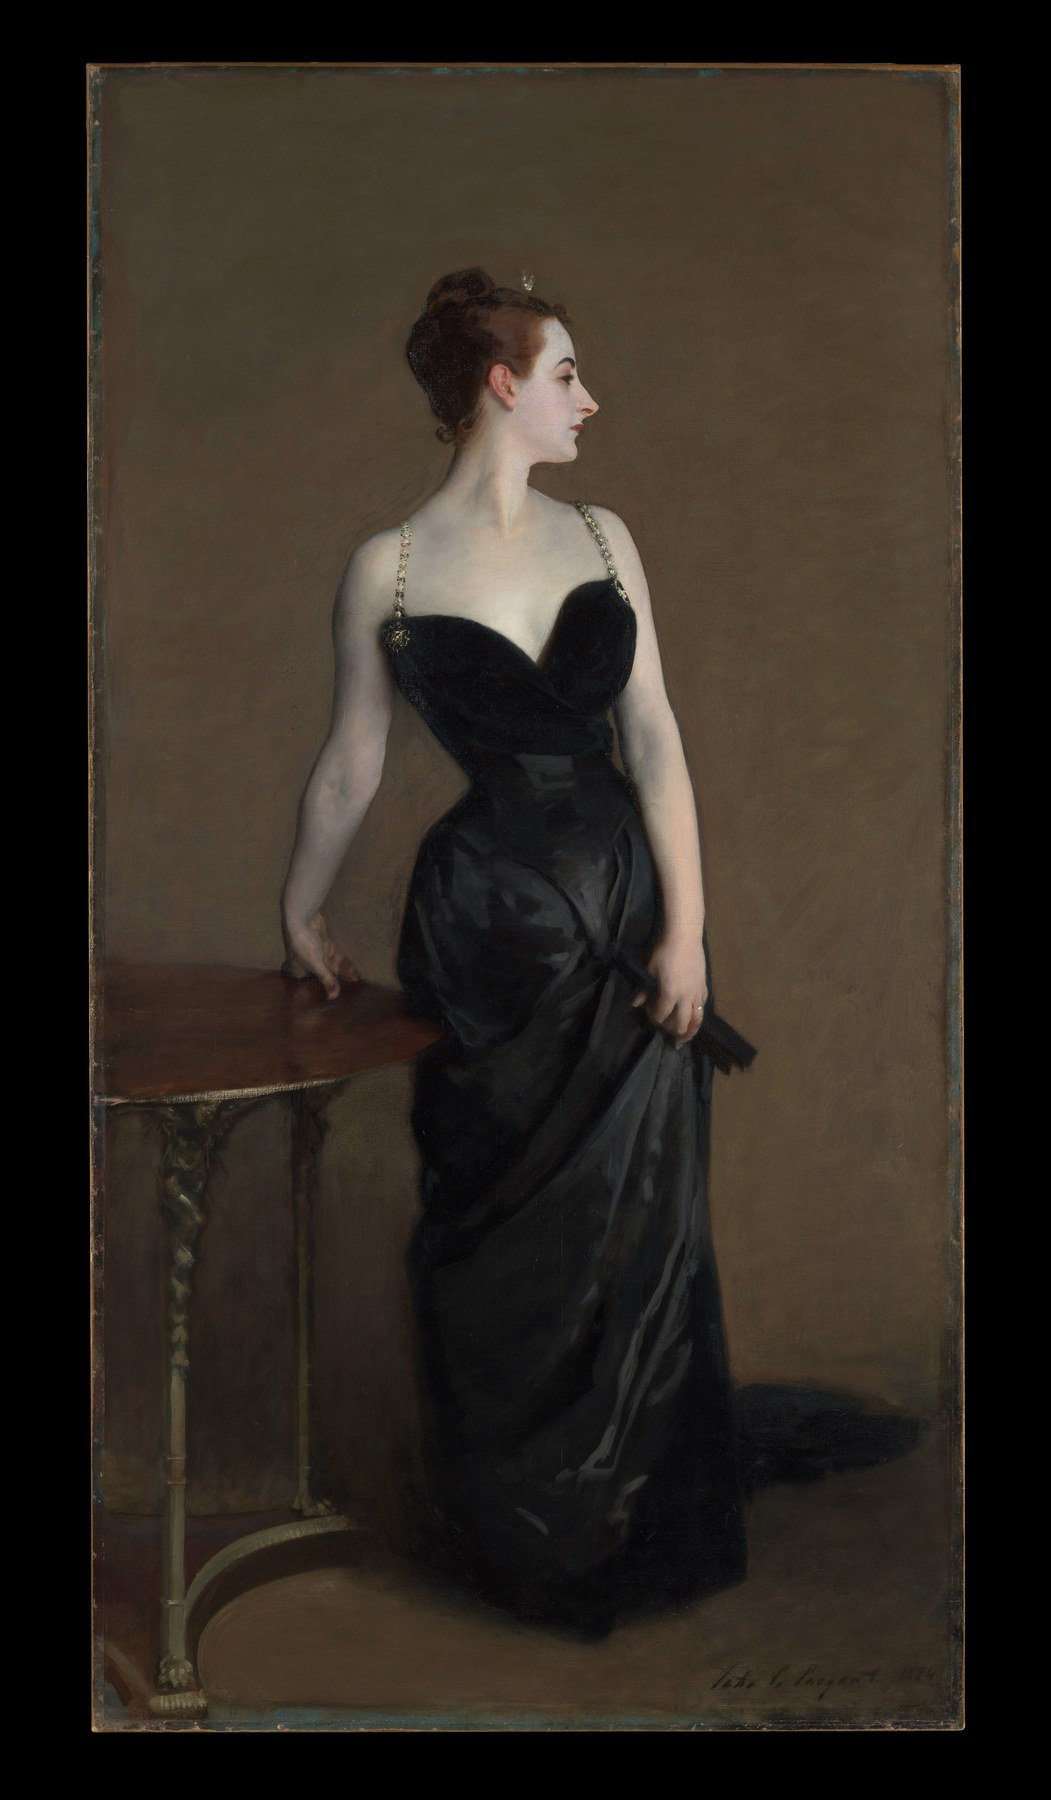
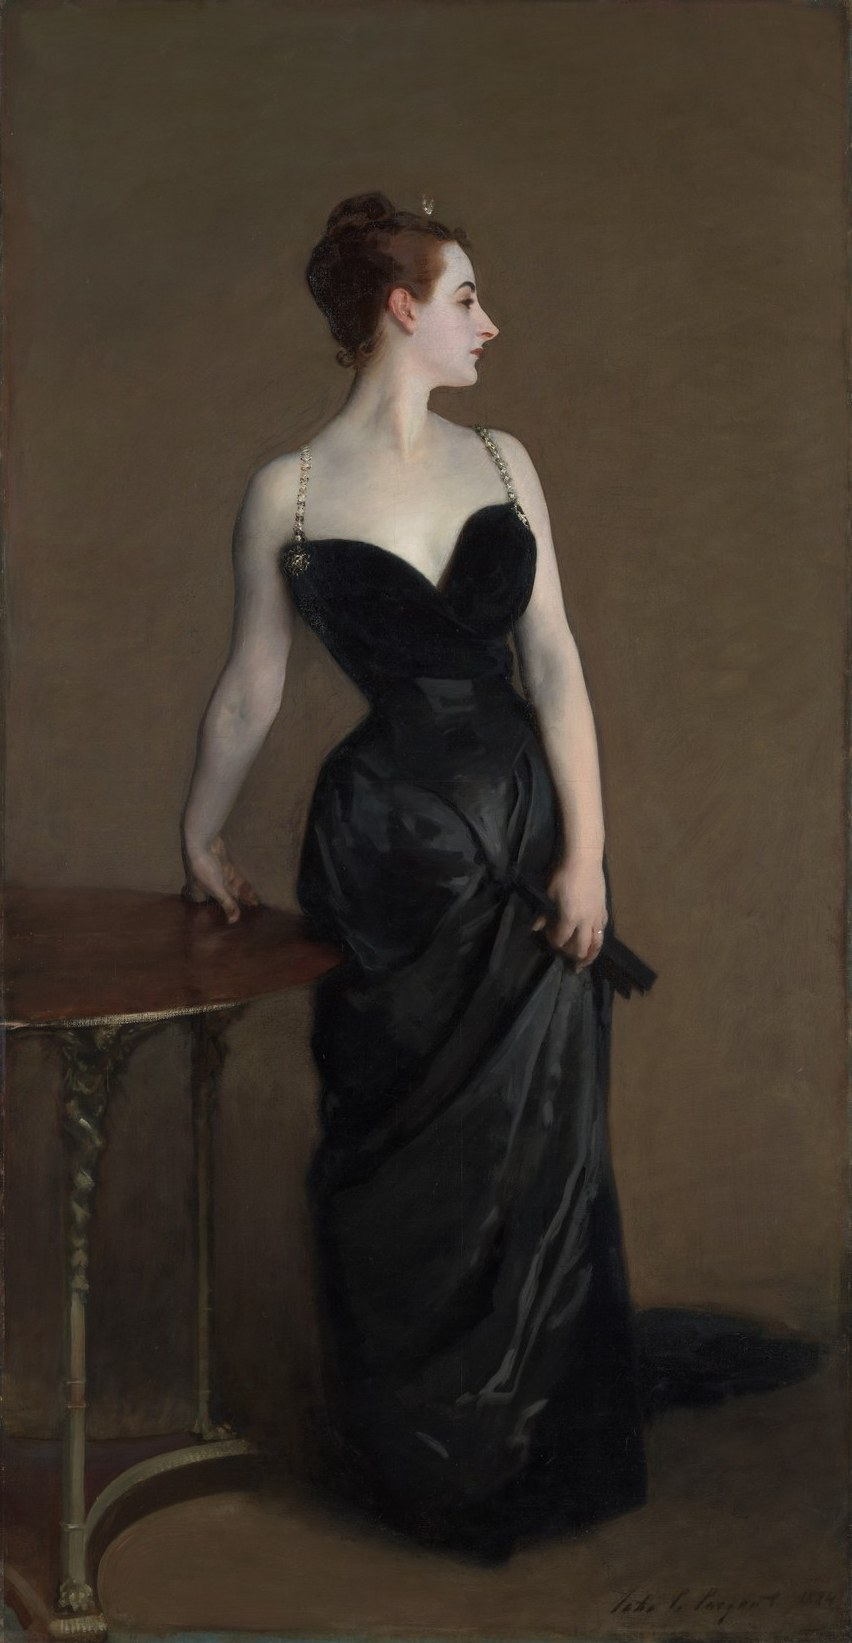
Gallery: paintings in the narrow walls, spotlights under the frames, works taken down not faded
- Small works (studies, prints) hang in the strips beside ordinary windows, with a small card below or beside
  them and a tighter margin: with two windows open the wall used to be bare.
- Spotlights light the wall round each frame, under it, and a soft-light fall lights the canvas: screened over
  the paintings they washed dark canvases milky. After hours the wall dims, the lit works and labels stay readable.
- Madame X, Wheat Field with Cypresses and The Dance Class cropped to the canvas (the Met photos' black surround
  showed inside the frames); art.json sizes updated.
- A closed window's frame is lifted off its hook after its light dims, instead of fading through the light as a
  pale slab; a window that comes over a hung work takes it down at once, quickly, up and out.
- A small window gets a slim mount and a light its own size; the Stage Manager label fits its niche; desktop icon
  alcoves that touch become one bookcase; a window's label must be nearer its own frame than any other.
- "Artist unknown" instead of "UNKNOWN".

diff --git a/themes/gallery.html b/themes/gallery.html
@@ -26,6 +26,8 @@
     box-shadow: 0 1px 2px rgba(0,0,0,.35), 5px 12px 22px rgba(35,20,8,.30), 14px 30px 60px rgba(35,20,8,.20); }
   .frame { position: absolute; box-sizing: border-box; border-style: solid; background: #16120e; background-clip: padding-box; }
   .art { position: absolute; display: block; object-fit: cover; }
+  /* the spotlight's fall on the canvas itself: warm at the top, gone by the middle (soft-light keeps the darks dark) */
+  .glow { position: absolute; inset: 0; pointer-events: none; mix-blend-mode: soft-light; background: linear-gradient(180deg, rgba(255,220,170,.34), rgba(255,220,170,0) 58%); }
   .mat { position: absolute; background: #f3eee4; box-shadow: inset 0 0 0 1px rgba(0,0,0,.06), inset 1px 2px 4px rgba(0,0,0,.18); }
   .light { position: absolute; mix-blend-mode: screen; transition: opacity 1.2s ease; pointer-events: none;
     background: radial-gradient(ellipse 50% 50% at 50% 50%, rgba(255,214,160,.85) 0%, rgba(255,214,160,.6) 34%, rgba(255,214,160,.22) 66%, rgba(255,214,160,0) 100%); }
@@ -52,12 +54,14 @@
 <body>
 <script src="span.js"></script>
 <div id="room">
+<!-- the spotlights light the wall round each frame, under it (screened over the paintings, they washed dark canvases
+     milky and at night fogged them); after hours the wall and the shadows go dark, the lit works and their labels don't -->
 <div class="layer" id="Lniche"></div>
 <div class="layer" id="Lshadow"></div>
-<div class="layer" id="Lframe"></div>
-<div class="layer" id="Lplate"></div>
 <div id="night"></div>
 <div class="layer" id="Llight"></div>
+<div class="layer" id="Lframe"></div>
+<div class="layer" id="Lplate"></div>
 </div>
 <script>
 'use strict';
@@ -124,9 +128,9 @@ const LABELS = [
   [/preview|photos/, ['Still Life'], 'Pixels'],
 ];
 function labelFor(app, nth) {
-  const a = (app || 'Unknown').toLowerCase();
+  const a = (app || '').toLowerCase();
   for (const [re, titles, medium] of LABELS) if (re.test(a)) return { artist: app, title: `${titles[nth % titles.length]}${nth >= titles.length ? ` No. ${nth + 1}` : ''}, ${YEAR}`, medium };
-  return { artist: app || 'Unknown', title: `Untitled${nth ? ` No. ${nth + 1}` : ''}, ${YEAR}`, medium: 'Pixels on glass' };
+  return { artist: app || 'Artist unknown', title: `Untitled${nth ? ` No. ${nth + 1}` : ''}, ${YEAR}`, medium: 'Pixels on glass' };
 }
 
 /* ======================= a hung piece: shadow, frame (+ painting), spotlight, plate ======================= */
@@ -143,10 +147,15 @@ function fadeIn(p) {
   for (const e of els) e.style.opacity = 0;
   requestAnimationFrame(() => requestAnimationFrame(() => { if (p.gone) return; els.forEach((e, i) => { if (e.style.opacity === '0') e.style.opacity = want[i]; }); p.plate.style.opacity = p.plateBox ? 1 : 0; }));
 }
-function removePiece(p, lift) {
+function removePiece(p, lift, quick) {
   const els = [p.shadow, p.frame, p.light, p.plate]; p.gone = true;
-  if (lift) { for (const e of els) { e.style.opacity = 0; e.style.transform = 'translateY(-14px)'; } setTimeout(() => els.forEach(e => e.remove()), 1300); }
-  else { p.frame.style.background = 'none'; for (const e of els) e.style.opacity = 0; setTimeout(() => els.forEach(e => e.remove()), 850); }   // the window's gone: its frame fades with it (an empty frame, not a dark slab)
+  // (quick: a window has come over it, so it is lifted up and out before the window's own frame has faded in)
+  if (lift) { for (const e of els) { if (quick) e.style.transition = 'opacity .45s ease, transform .5s cubic-bezier(.4,0,.6,1)'; e.style.opacity = 0; e.style.transform = `translateY(${quick ? -22 : -14}px)`; } setTimeout(() => els.forEach(e => e.remove()), quick ? 600 : 1300); }
+  // the window's gone: its light dims first, then its empty frame is taken down as a work is, lifted off its hook (a plain
+  // fade through the light left a pale double-edged slab hanging there for most of a second)
+  else { p.frame.style.background = 'none'; p.light.style.transition = 'opacity .3s ease'; p.light.style.opacity = 0;
+    for (const e of [p.shadow, p.frame, p.plate]) { e.style.transition = 'opacity .45s ease .15s, transform .5s cubic-bezier(.4,0,.6,1) .15s'; e.style.opacity = 0; e.style.transform = 'translateY(-12px) scale(.985)'; }
+    setTimeout(() => els.forEach(e => e.remove()), 750); }
 }
 // geometry: the inner rect is what shows (a window, or a painting); the frame wraps it; the plate hangs beside it
 function frameWidth(w, h, kind) { return Math.round(clamp(Math.min(w, h) * (kind === 'art' ? .075 : .05), 16, 58)); }
@@ -160,23 +169,32 @@ function setFrame(p, x, y, w, h, opt) {
   if (p.style !== opt.style || p.F !== F) { styleFrame(p.frame, opt.style, F); p.style = opt.style; p.F = F; } p.Fv = F - tuck;   // (Fv: how much of it shows)
   Object.assign(p.frame.style, { left: fx + 'px', top: fy + 'px', width: fw + 'px', height: fh + 'px' });
   Object.assign(p.shadow.style, { left: fx + 'px', top: fy + 'px', width: fw + 'px', height: fh + 'px' });
-  const lw = fw * 1.35 + 140, lh = fh * 1.4 + 160;                     // the spotlight: brightest just above the frame's top, where the light lands
+  const lw = opt.small ? fw * 1.2 + 40 : fw * 1.35 + 140, lh = opt.small ? fh * 1.25 + 46 : fh * 1.4 + 160;   // the spotlight: brightest just above the frame's top, where the light lands (a small work's, its own size)
   Object.assign(p.light.style, { left: fx + fw / 2 - lw / 2 + 'px', top: fy + fh * .3 - lh / 2 + 'px', width: lw + 'px', height: lh + 'px', opacity: opt.lit });
   p.box = [fx, fy, fx + fw, fy + fh];
 }
 // a label goes where it fits: below the frame, else above, else beside it — never over anything else on the wall
-function setPlate(p, label, claimed) {
+function setPlate(p, label, claimed, frames = null, small = null) {
   p.plateBox = null;
   if (label) { const [a, t, m] = p.plate.children;                     // only when it changed: each write re-laid and repainted the label
     if (a.textContent !== label.artist) a.textContent = label.artist; if (t.textContent !== label.title) t.textContent = label.title; if (m.textContent !== label.medium) m.textContent = label.medium; }
   if (!label) { p.plate.style.opacity = 0; return; }
   const [fx, fy, fx1, fy1] = p.box, fw = fx1 - fx, g = 14, PF = frameOf(p.box) || [0, 0, W, H], X0 = PF[0], X1 = PF[0] + PF[2], Y0 = PF[1], Y1 = PF[1] + PF[3];
+  if (small) {                                                         // a small work's card, where its footprint kept room for it
+    const [pw, ph] = SMALL_PLATE, [px, py] = small === 'beside' ? [fx1 + 14, fy1 - (fy1 - fy) / 2 - ph / 2] : [(fx + fx1) / 2 - pw / 2, fy1 + 16];
+    Object.assign(p.plate.style, { left: px + 'px', top: py + 'px', width: pw + 'px', height: ph + 'px', opacity: 1 });
+    p.plate.classList.add('sm'); p.plateBox = [px, py, px + pw, py + ph]; return;
+  }
+  // a label must be nearer its own frame than any other, or nobody can tell whose it is (a window's plate sat right
+  // under a painting's, and with many windows plates floated between them)
+  const bd = (a, b) => Math.hypot(Math.max(b[0] - a[2], a[0] - b[2], 0), Math.max(b[1] - a[3], a[1] - b[3], 0));
+  const mine = b => !frames || frames.every(o => bd(b, p.box) < bd(b, o) - 8);
   for (const sc of [1, .84, .72]) {
     const pw = clamp(fw * .3, 170, 240) * sc, ph = pw * .4, mid = clamp(fx + fw / 2 - pw / 2, X0 + 8, X1 - pw - 8);
     const cands = [[mid, fy1 + g], [mid, fy - g - ph], [fx1 + g, fy1 - ph], [fx - g - pw, fy1 - ph], [fx1 + g, fy], [fx - g - pw, fy]];
     for (const [px, py] of cands) {
       const b = [px, py, px + pw, py + ph];
-      if (px < X0 + 8 || px + pw > X1 - 8 || py < Y0 + 8 || py + ph > FLOOR(PF) || hit(b, claimed)) continue;
+      if (px < X0 + 8 || px + pw > X1 - 8 || py < Y0 + 8 || py + ph > FLOOR(PF) || hit(b, claimed) || !mine(b)) continue;
       glide(p, sc + ':' + cands.findIndex(c => c[0] === px && c[1] === py));
       Object.assign(p.plate.style, { left: px + 'px', top: py + 'px', width: pw + 'px', height: ph + 'px', opacity: 1, fontSize: '' });
       p.plate.classList.toggle('sm', sc < .8); p.plate.classList.remove('rail');
@@ -207,7 +225,7 @@ function glide(p, cand) {
   const g = now < (p.glideUntil || 0);
   if (g !== !!p.gliding) { p.gliding = g; p.plate.style.transition = g ? 'opacity .8s ease, left .4s cubic-bezier(.45,0,.25,1), top .4s cubic-bezier(.45,0,.25,1), width .4s ease, height .4s ease' : ''; }
 }
-function place(p, x, y, w, h, opt) { setFrame(p, x, y, w, h, opt); setPlate(p, opt.label, opt.claimed || []); }
+function place(p, x, y, w, h, opt) { setFrame(p, x, y, w, h, opt); setPlate(p, opt.label, opt.claimed || [], null, opt.small); }
 
 /* ======================= your windows ======================= */
 let wins = [];                                                         // one piece per window, matched by app and position
@@ -294,17 +312,21 @@ function setWindows(all) {
   const others = it => [...fixed, ...items.filter(o => o !== it).map(o => ({ box: [o.t.x, o.t.y, o.t.x + o.t.w, o.t.y + o.t.h], framed: true }))];
   for (const it of items) {
     const F = roomFor(it.t, it.small ? 10 : frameWidth(it.t.w, it.t.h, 'win'), others(it));
-    setFrame(it.p, it.t.x, it.t.y, it.t.w, it.t.h, { kind: 'win', F, style: it.small || F < 12 ? 'black' : frameFor(it.t.app), lit: it.i === 0 ? 1 : .55 });
+    // (a small window: a slim silver mount, not a black slab behind its rounded corners)
+    setFrame(it.p, it.t.x, it.t.y, it.t.w, it.t.h, { kind: 'win', F: it.small ? Math.min(F, 8) : F, style: it.small ? 'silver' : F < 12 ? 'black' : frameFor(it.t.app), lit: it.i === 0 ? 1 : .55, small: it.small });
   }
   const claimed = [...all.map(t => [t.x - 4, t.y - 4, t.x + t.w + 4, t.y + t.h + 4]), ...items.map(it => it.p.box), ...niches.map(n => n.box), ...stands.map(s => s.box)];
-  for (const it of items) setPlate(it.p, it.small ? null : labelFor(it.t.app, it.nth), claimed);
+  // (only your windows' frames: the paintings make room for the labels, so a label never moves on their account)
+  const frames = items.map(it => it.p.box);
+  for (const it of items) setPlate(it.p, it.small ? null : labelFor(it.t.app, it.nth), claimed, frames.filter(b => b !== it.p.box));
   // the front window's frame and label over those behind it, and every window's over the paintings (the paintings hung
   // after a window used to cover its frame and label: the newest element won)
   for (const it of items) { const z = String(100 + items.length - it.i); for (const e of [it.p.shadow, it.p.frame, it.p.plate]) if (e.style.zIndex !== z) e.style.zIndex = z;
     if (it.p.fresh) { it.p.fresh = false; fadeIn(it.p); } }
   // the Stage Manager label last: below its niche, else above, else not at all
+  // (no wider than the niche, down to 110: wider, beside a window, it hit that window's frame and was left off)
   for (const n of niches) {
-    const pw = clamp(n.box[2] - n.box[0] + 10, 130, 200), ph = pw * .38, px = clamp((n.box[0] + n.box[2]) / 2 - pw / 2, 8, W - pw - 8);
+    const pw = clamp(n.box[2] - n.box[0], 110, 200), ph = pw * .38, px = clamp((n.box[0] + n.box[2]) / 2 - pw / 2, 8, W - pw - 8);
     const NF = frameOf(n.box); const spot = [[px, n.box[3] + 10], [px, n.box[1] - 10 - ph]].find(([x, y]) => y > (NF ? NF[1] : 0) + 8 && y + ph < FLOOR(NF) && !hit([x, y, x + pw, y + ph], claimed));
     if (spot) { Object.assign(n.plate.style, { left: spot[0] + 'px', top: spot[1] + 'px', width: pw + 'px', height: ph + 'px', opacity: 1 }); claimed.push([spot[0], spot[1], spot[0] + pw, spot[1] + ph]); n.plateBox = [spot[0], spot[1], spot[0] + pw, spot[1] + ph]; }
     else n.plate.style.opacity = 0;
@@ -322,11 +344,16 @@ function shelveIcons() {
   // built only when the icons change (this runs on every window update, a drag included)
   const key = JSON.stringify([deskIc, deskIcons]); if (key === shelfKey) return; shelfKey = key;
   for (const s of stands) if (s.icon) s.els.forEach(e => e.remove()); stands = stands.filter(s => !s.icon);
-  for (const c of deskIc) {
-    const x0 = c.x - 14, y0 = c.y - 12, x1 = c.x + c.w + 14, y1 = c.y + c.h + 14, els = [];
+  // clusters whose alcoves would touch share one (one bookcase, not a ladder of overlapping alcoves with double edges)
+  const units = deskIc.map(c => ({ b: [c.x - 14, c.y - 12, c.x + c.w + 14, c.y + c.h + 14], cs: [c] }));
+  for (let merged = true; merged;) { merged = false;
+    for (let i = 0; i < units.length && !merged; i++) for (let j = i + 1; j < units.length; j++) { const a = units[i].b, b = units[j].b;
+      if (a[0] <= b[2] + 2 && a[2] >= b[0] - 2 && a[1] <= b[3] + 2 && a[3] >= b[1] - 2) { units[i] = { b: [Math.min(a[0], b[0]), Math.min(a[1], b[1]), Math.max(a[2], b[2]), Math.max(a[3], b[3])], cs: units[i].cs.concat(units[j].cs) }; units.splice(j, 1); merged = true; break; } } }
+  for (const { b: [x0, y0, x1, y1], cs } of units) {
+    const els = [];
     const al = $('div', 'niche', L.niche); Object.assign(al.style, { left: x0 + 'px', top: y0 + 'px', width: x1 - x0 + 'px', height: y1 - y0 + 'px' }); els.push(al);
     // a row is the icons whose images line up (labels of one or two lines end at different heights): one shelf under it
-    const mine = deskIcons.filter(r => r.x >= c.x - 1 && r.x + r.w <= c.x + c.w + 1 && r.y >= c.y - 1 && r.y + r.h <= c.y + c.h + 1).sort((a, b) => a.iy - b.iy), rows = [];
+    const mine = deskIcons.filter(r => cs.some(c => r.x >= c.x - 1 && r.x + r.w <= c.x + c.w + 1 && r.y >= c.y - 1 && r.y + r.h <= c.y + c.h + 1)).sort((a, b) => a.iy - b.iy), rows = [];
     for (const r of mine) { const row = rows[rows.length - 1]; if (row && r.iy - row.iy < 20) row.b = Math.max(row.b, r.y + r.h); else rows.push({ iy: r.iy, b: r.y + r.h }); }
     for (const { b } of rows) { const sh = $('div', 'shelf', L.niche); Object.assign(sh.style, { left: x0 + 6 + 'px', top: Math.round(b) + 1 + 'px', width: x1 - x0 - 12 + 'px' }); els.push(sh); }
     stands.push({ els, box: [x0, y0, x1, y1 + 10], icon: true });
@@ -336,30 +363,37 @@ function shelveIcons() {
 /* ======================= the collection: masterpieces hung in the free wall ======================= */
 let ART = [], hung = [], DESK = { i: 0, n: 1 };
 const ART_FRAME = { 45434: 'black', 437654: 'silver', 438817: 'silver', 436532: 'oak' };   // the Hokusai print gets a black frame and a mat
-function boxes() {                                                     // where nothing may hang: windows (with their frames and plates), plus a margin
-  const m = 36, out = [];
+function boxes(m = 36) {                                               // where nothing may hang: windows (with their frames and plates), plus a margin
+  const out = [];
   for (const n of niches) { out.push([n.box[0] - m, n.box[1] - m, n.box[2] + m, n.box[3] + m]); if (n.plateBox) out.push([n.plateBox[0] - m, n.plateBox[1] - m, n.plateBox[2] + m, n.plateBox[3] + m]); }
   for (const s of stands) out.push([s.box[0] - m, s.box[1] - m, s.box[2] + m, s.box[3] + m]);
   for (const r of lastAll) out.push([r.x - m, r.y - m, r.x + r.w + m, r.y + r.h + m]);
   for (const c of wins) { out.push([c.box[0] - m, c.box[1] - m, c.box[2] + m, c.box[3] + m]); if (c.plateBox) out.push([c.plateBox[0] - m, c.plateBox[1] - m, c.plateBox[2] + m, c.plateBox[3] + m]); }
   return out;
 }
-// the whole footprint of a hung painting of height h at (x, y): frame + plate below it
-function footprint(art, x, y, h) {
+// the whole footprint of a hung painting of height h at (x, y): frame + plate below it (a small work's plate is a small
+// card, below it or, in a low strip, beside it)
+const SMALL_PLATE = [122, 49];
+function footprint(art, x, y, h, small = null) {
   const w = h * art.w / art.h, F = frameWidth(w, h, 'art'), mat = ART_FRAME[art.id] === 'black' ? Math.round(h * .07) : 0;
-  const fw = w + 2 * (F + mat), fh = h + 2 * (F + mat), pw = clamp(fw * .3, 170, 240), ph = pw * .4;
-  return { w, h, F, mat, fw, fh, box: [x - F - mat, y - F - mat, x + w + F + mat, y + h + F + mat + 16 + ph] };
+  const fw = w + 2 * (F + mat), fh = h + 2 * (F + mat), [pw, ph] = small ? SMALL_PLATE : [clamp(fw * .3, 170, 240), clamp(fw * .3, 170, 240) * .4];
+  const x0 = x - F - mat, y0 = y - F - mat;
+  if (small === 'beside') return { w, h, F, mat, fw, fh, small, box: [x0, y0, x0 + fw + 14 + pw, y0 + Math.max(fh, ph)] };
+  return { w, h, F, mat, fw, fh, small, box: [Math.min(x0, x0 + fw / 2 - pw / 2), y0, Math.max(x0 + fw, x0 + fw / 2 + pw / 2), y0 + fh + 16 + ph] };
 }
-function bestSpot(art, obstacles, F) {
+// big works first; where none fits, the small ones museums hang in narrow places (studies, prints, miniatures), with
+// a tighter margin: beside two ordinary windows the strips left were never big enough, and the wall stayed bare
+function bestSpot(art, obstacles, F, obsSmall) {
   const [FX, FY, FW, FH] = F, top = FY + FH * .07, floor = Math.min(FY + FH * .935, floorOf(F)), step = 14; let best = null;
-  for (const hf of [.42, .37, .32, .28, .24, .2]) {
-    const h = FH * hf, fp0 = footprint(art, 0, 0, h), fw = fp0.box[2] - fp0.box[0], fh = fp0.box[3] - fp0.box[1];
+  for (const [hf, small] of [[.42], [.37], [.32], [.28], [.24], [.2], [.16, 'below'], [.16, 'beside'], [.12, 'below'], [.12, 'beside'], [.09, 'beside'], [.09, 'below']]) {
+    const h = FH * hf, fp0 = footprint(art, 0, 0, h, small), fw = fp0.box[2] - fp0.box[0], fh = fp0.box[3] - fp0.box[1];
+    if (small) obstacles = obsSmall;
     if (fw > FW - 60 || fh > floor - top) continue;
     // prefer a spot near the display's comfortable eye line, then its centre
     for (let y = top; y + fh <= floor; y += step) for (let x = FX + 30; x + fw <= FX + FW - 30; x += step) {
       const b = [x, y, x + fw, y + fh]; if (hit(b, obstacles)) continue;
       const score = h * 10 - Math.abs((y + fh * .45) - (FY + FH * .45)) * .6 - Math.abs((x + fw / 2) - (FX + FW / 2)) * .15;
-      if (!best || score > best.score) best = { score, x: x - fp0.box[0], y: y - fp0.box[1], h, box: b };
+      if (!best || score > best.score) best = { score, x: x - fp0.box[0], y: y - fp0.box[1], h, small, box: b };
     }
     if (best) return best;
   }
@@ -372,30 +406,37 @@ function order() {                                                     // which 
 }
 function hangCollection() {
   if (!ART.length || !FRAMES) return;
-  const obstacles = boxes(), keep = [];
+  const obstacles = boxes(), obsSmall = boxes(18), keep = [];
   // works already on the wall stay where they are if they're still clear; otherwise they're taken down
-  for (const h of hung) { if (!hit(h.box, obstacles) && within(h.box, frameOf(h.box), 0)) { keep.push(h); obstacles.push(pad(h.box)); } else removePiece(h.p, true); }
+  for (const h of hung) { if (!hit(h.box, h.small ? obsSmall : obstacles) && within(h.box, frameOf(h.box), 0)) { keep.push(h); obstacles.push(pad(h.box)); obsSmall.push(padS(h.box)); } else removePiece(h.p, true); }
   hung = keep;
   for (const F of FR) for (const art of order()) {
     if (hung.filter(h => frameOf(h.box) === F).length >= 4) break;        // up to four works on each display
     if (hung.some(h => h.art.id === art.id)) continue;
-    const s = bestSpot(art, obstacles, F); if (!s) continue;
-    const p = makePiece('art'), fp = footprint(art, s.x, s.y, s.h);
-    const img = $('img', 'art', p.frame); img.src = art.file; img.decoding = 'async';
+    const s = bestSpot(art, obstacles, F, obsSmall); if (!s) continue;
+    const p = makePiece('art'), fp = footprint(art, s.x, s.y, s.h, s.small);
+    const img = $('img', 'art', p.frame); img.src = art.file; img.decoding = 'async'; $('div', 'glow', p.frame);
     if (fp.mat) { const m = $('div', 'mat', p.frame); m.style.inset = '0'; p.frame.insertBefore(m, img); Object.assign(img.style, { left: fp.mat + 'px', top: fp.mat + 'px', width: fp.w + 'px', height: fp.h + 'px' }); }
     else Object.assign(img.style, { left: 0, top: 0, width: fp.w + 'px', height: fp.h + 'px' });
-    place(p, s.x - fp.mat, s.y - fp.mat, fp.w + 2 * fp.mat, fp.h + 2 * fp.mat, { kind: 'art', F: fp.F, style: ART_FRAME[art.id] || 'gold', lit: .8,
+    place(p, s.x - fp.mat, s.y - fp.mat, fp.w + 2 * fp.mat, fp.h + 2 * fp.mat, { kind: 'art', F: fp.F, style: ART_FRAME[art.id] || 'gold', lit: s.small ? .6 : .8, small: s.small,
       label: { artist: art.artist, title: `${art.title}, ${art.date}`, medium: `${art.medium} · ${art.credit}` } });   // the full credit lines are in THIRD_PARTY_NOTICES
     // it's hung: lowered gently onto its hook
     for (const e of [p.shadow, p.frame, p.light, p.plate]) { e.style.opacity = 0; e.style.transform = 'translateY(-14px)'; }
     // lowered once its picture is ready (an empty frame used to come down first, and its label ahead of it)
-    const lower = () => requestAnimationFrame(() => requestAnimationFrame(() => { if (p.gone) return; for (const e of [p.shadow, p.frame, p.plate]) { e.style.opacity = ''; e.style.transform = ''; } p.plate.style.opacity = p.plateBox ? 1 : 0; p.light.style.opacity = .8; p.light.style.transform = ''; }));
+    const lower = () => requestAnimationFrame(() => requestAnimationFrame(() => { if (p.gone) return; for (const e of [p.shadow, p.frame, p.plate]) { e.style.opacity = ''; e.style.transform = ''; } p.plate.style.opacity = p.plateBox ? 1 : 0; p.light.style.opacity = s.small ? .6 : .8; p.light.style.transform = ''; }));
     if (img.decode) img.decode().then(lower, lower); else lower();
-    const h = { art, p, box: fp.box.map((v, i) => v + (i % 2 ? 0 : 0)) }; h.box = [s.box[0], s.box[1], s.box[2], s.box[3]];
-    hung.push(h); obstacles.push(pad(h.box));
+    const h = { art, p, small: s.small, box: [s.box[0], s.box[1], s.box[2], s.box[3]] };
+    hung.push(h); obstacles.push(pad(h.box)); obsSmall.push(padS(h.box));
   }
 }
-const pad = b => [b[0] - 30, b[1] - 30, b[2] + 30, b[3] + 30];
+const pad = b => [b[0] - 30, b[1] - 30, b[2] + 30, b[3] + 30], padS = b => [b[0] - 16, b[1] - 16, b[2] + 16, b[3] + 16];
+// a window opened or brought back over a hung work: it comes down now, not at the next re-hang (for a second or so its
+// frame and label peeked out between the windows' frames)
+function liftCovered() {
+  if (!hung.length) return;
+  const over = lastAll.map(r => [r.x - 4, r.y - 4, r.x + r.w + 4, r.y + r.h + 4]).concat(wins.map(c => c.box), wins.filter(c => c.plateBox).map(c => c.plateBox));
+  hung = hung.filter(h => { if (!hit(h.box, over)) return true; removePiece(h.p, true, true); return false; });
+}
 
 /* ======================= after hours ======================= */
 function houseLights() {
@@ -418,7 +459,7 @@ const handle = m => {
     setWindows(lastAll); clearTimeout(settle); settle = setTimeout(hangCollection, 350); return; }
   if (m.t === 'windows') {
     lastRaw = m.r.map(([l, t, r, b], i) => ({ x: l / K, y: t / K, w: (r - l) / K, h: (b - t) / K, app: (m.n || [])[i] || '', sm: (m.sm || [])[i] === 1 }));
-    lastAll = lastRaw.map(toWorld); setWindows(lastAll);
+    lastAll = lastRaw.map(toWorld); liftCovered(); setWindows(lastAll); liftCovered();
     clearTimeout(settle); settle = setTimeout(hangCollection, m.live ? 900 : 200);   // re-hang once you've stopped moving things
   }
 };
